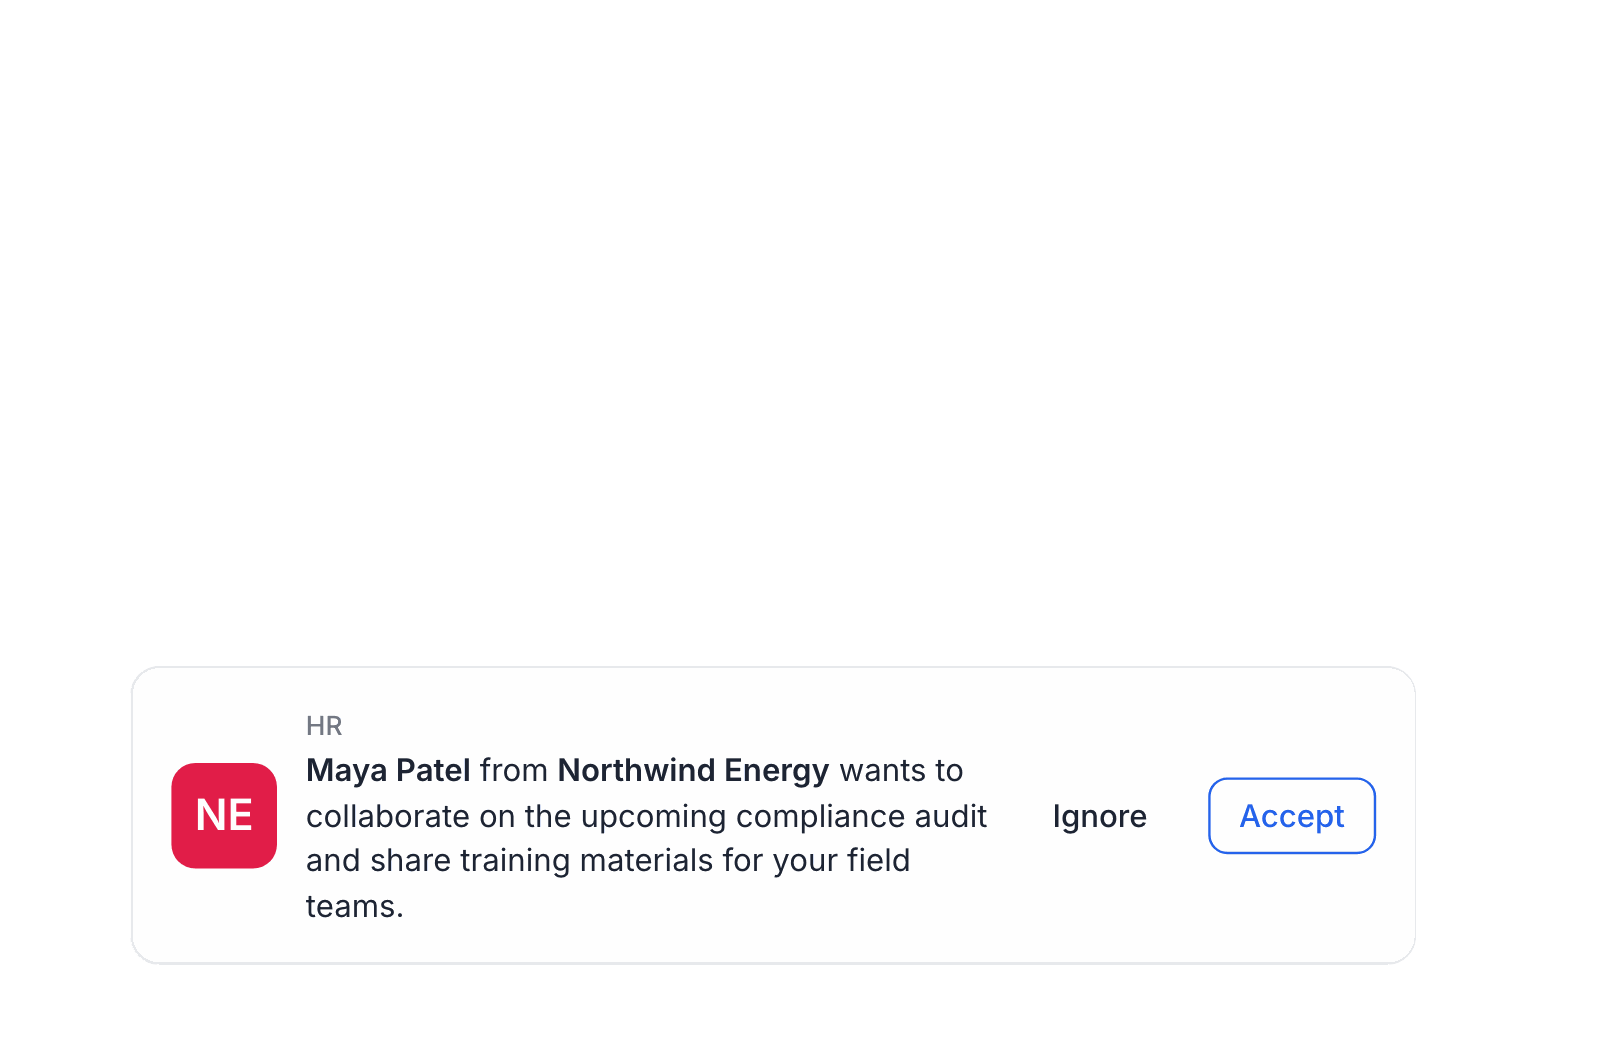
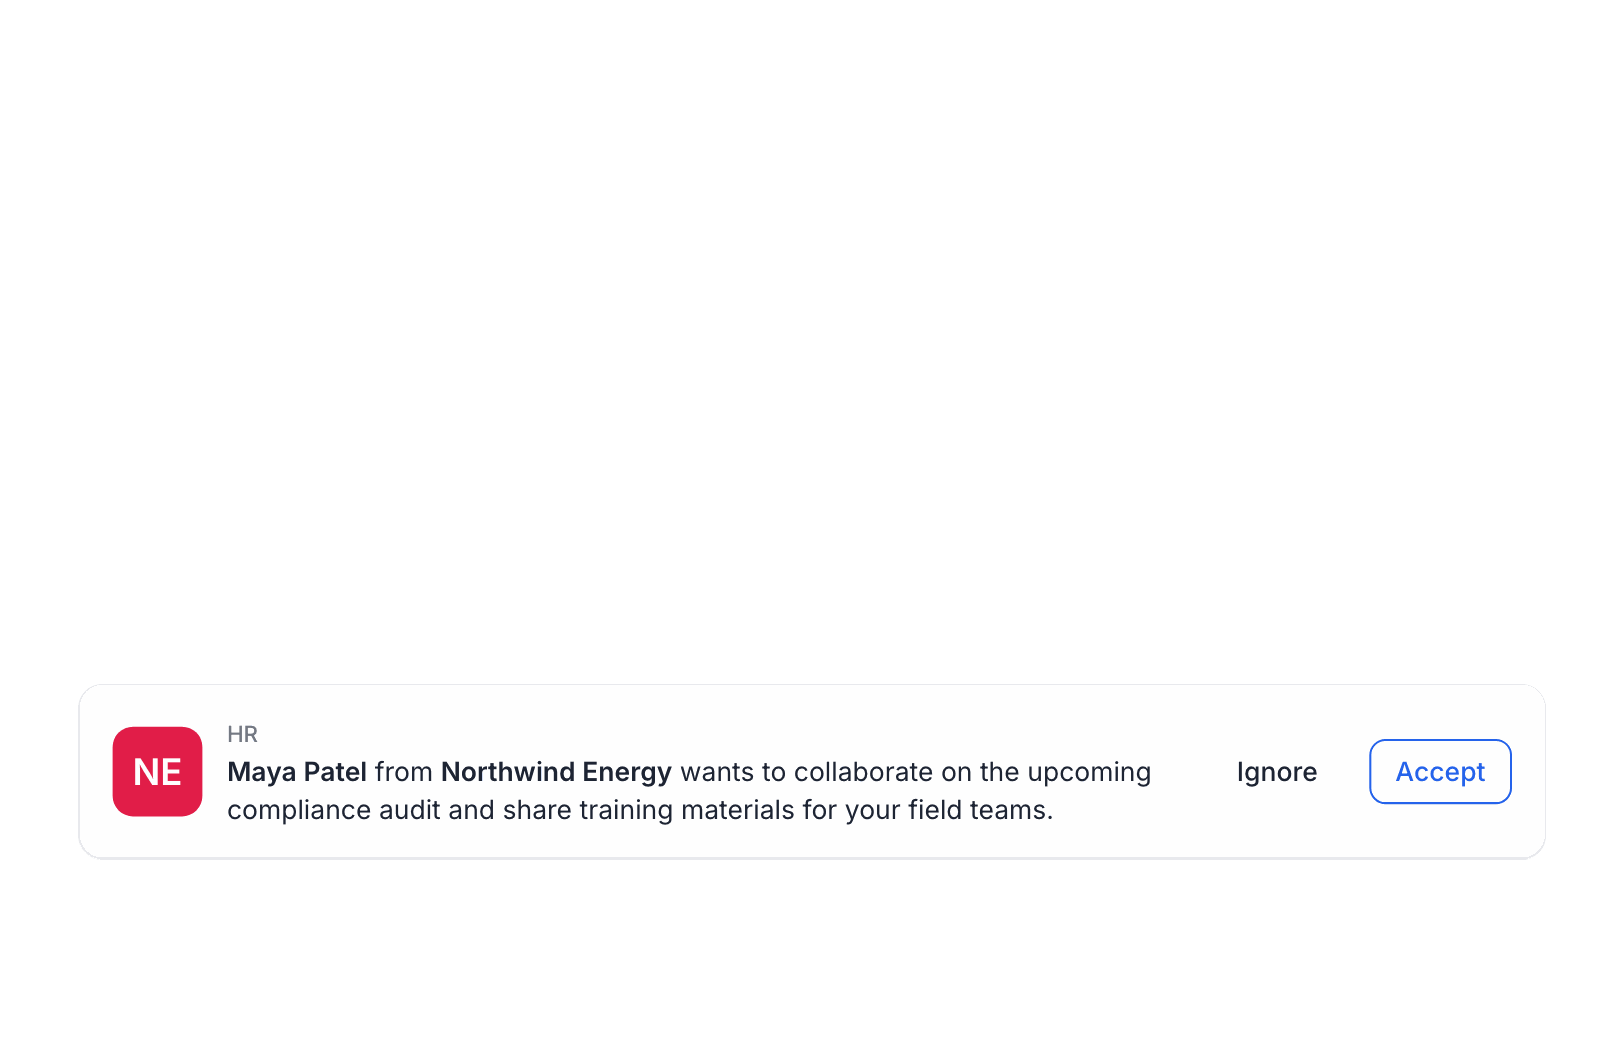
feat(work): Connect2WOW thumbnails play the prototype, on the one at the front
The worker record steps through its Overview, Payroll and Document tabs
in a fixed frame. The top bar opens the profile menu, zooms in on it for
1.5s and out, closes it, then does the same with the notifications. The
requests panel shows every card whole, and its cards rise in only when it
comes to the front. Replaces the slow camera move.

Changed region(s): [[0.0616, 0.6769, 0.7081, 0.8615], [0.7389, 0.7077, 0.9236, 0.8308], [0.1847, 0.8615, 0.2463, 0.8923]]

diff --git a/src/scripts/v4-strip.js b/src/scripts/v4-strip.js
@@ -7,11 +7,14 @@
  * each side (.is-clone, hidden from screen readers): after sliding onto a
  * copy it jumps, unseen, to the real one.
  *
- * THE THUMBNAIL IT LANDS ON PLAYS, once the strip is on screen (.is-play):
- * a "pan" panel its slow camera move, when it is the one at the front; a
- * "layers" panel its layers one by one, the first time any of it shows
- * (.is-held keeps them up after). Off screen, both reset, so they play again
- * next time. Reduced motion: no slide, no motion (CSS).
+ * ONLY THE THUMBNAIL AT THE FRONT PLAYS, once the strip is on screen. A
+ * "frames" panel plays its steps (data-steps: which still shows, for how
+ * long, and a zoom into part of it), on a loop; anywhere else it waits on
+ * its first still. A "layers" panel brings its layers in one by one
+ * (.is-play) the first time it comes to the front, and keeps them up while
+ * it stays in sight (.is-held); until then they are hidden. Out of sight,
+ * both reset, so they play again next time. Reduced motion: no slide, no
+ * motion.
  *
  * THE WHOLE CARD IS A LINK. A click anywhere on a linked project (name,
  * text or strip; article[data-card-href]) opens its case study, Cmd/Ctrl or
@@ -25,6 +28,41 @@
   var SLIDE = 550;                                            // ms, as --v4-strip-slide
   var SWIPE = 40;                                             // px of drag or swipe for one step
   var WHEEL = 24;                                             // px of sideways scroll for one step
+
+  // A "frames" panel's steps: show still f for ms, zoomed into [x, y, scale]
+  // (x, y the centre to zoom on, 0-1 of the panel) or not at all.
+  function zoomTo(z) {
+    if (!z) return "none";
+    var s = z[2];
+    var tx = Math.max(1 - s, Math.min(0, 0.5 - s * z[0]));
+    var ty = Math.max(1 - s, Math.min(0, 0.5 - s * z[1]));
+    return "translate(" + (tx * 100).toFixed(2) + "%," + (ty * 100).toFixed(2) + "%) scale(" + s + ")";
+  }
+  function play(panel) {
+    if (panel._seq || reduce) return;
+    var steps = JSON.parse(panel.getAttribute("data-steps") || "[]");
+    var stack = panel.querySelector(".v4-project__frames");
+    var frames = stack ? stack.children : [];
+    if (!steps.length || !frames.length) return;
+    var i = 0;
+    panel.classList.remove("is-reset");
+    (function next() {
+      var st = steps[i];
+      Array.prototype.forEach.call(frames, function (f, k) { f.classList.toggle("is-on", k === st.f); });
+      stack.style.transform = zoomTo(st.zoom);
+      i = (i + 1) % steps.length;
+      panel._seq = setTimeout(next, st.ms);
+    })();
+  }
+  function stop(panel) {
+    if (!panel._seq) return;
+    clearTimeout(panel._seq);
+    panel._seq = 0;
+    panel.classList.add("is-reset");
+    var stack = panel.querySelector(".v4-project__frames");
+    stack.style.transform = "none";
+    Array.prototype.forEach.call(stack.children, function (f, k) { f.classList.toggle("is-on", k === 0); });
+  }
 
   Array.prototype.slice.call(document.querySelectorAll("[data-strip]")).forEach(function (strip) {
     var track = strip.querySelector(".v4-project__track");
@@ -56,23 +94,29 @@
       track.style.transform = "translate3d(" + x + "px,0,0)";
     }
 
-    // What is in view now, and what plays.
+    // What is in view now, and what plays: only the one at the front.
     function update() {
       var w = strip.clientWidth, seen = [];
       all.forEach(function (el, k) {
         var L = k % N, left = el.offsetLeft - all[0].offsetLeft + x;
         var vis = onScreen && left < w - 1 && left + el.offsetWidth > 1;
+        var front = onScreen && k === idx;
         if (vis) seen[L] = true;
-        if (!vis) { el.classList.remove("is-play", "is-held"); return; }
-        if (el.classList.contains("v4-project__panel--pan")) {
-          if (k !== idx) el.classList.remove("is-play");
-          else el.classList.add("is-play");
+        if (el.classList.contains("v4-project__panel--frames")) {
+          if (front) play(el); else stop(el);
         } else if (el.classList.contains("v4-project__panel--layers")) {
-          if (el.classList.contains("is-play") || el.classList.contains("is-held")) return;
-          el.classList.add(shown[L] ? "is-held" : "is-play");
+          if (front) {
+            if (!el.classList.contains("is-play") && !el.classList.contains("is-held")) el.classList.add(shown[L] ? "is-held" : "is-play");
+          } else if (vis && shown[L]) {
+            el.classList.remove("is-play");
+            el.classList.add("is-held");
+          } else {
+            el.classList.remove("is-play", "is-held");
+          }
+          if (front) seen[L] = "played";
         }
       });
-      for (var L = 0; L < N; L++) shown[L] = !!seen[L];
+      for (var L = 0; L < N; L++) shown[L] = seen[L] === "played" || (!!seen[L] && !!shown[L]);
     }
 
     // After a slide: off a copy onto the real one, unseen, then play.

diff --git a/src/_data/home.js b/src/_data/home.js
@@ -74,9 +74,22 @@ module.exports = {
           { text: " Co-built a 40–50 component design system and the model that decides how every alert looks and behaves." },
         ],
         panels: [
-          // motion: "pan" is a slow camera move (pan: 1 drifts right, -1 left);
-          // "layers" stack on bg and appear one by one (_work.css, v4-strip.js).
-          { src: "/Assets/v4/work/connect2wow/panel-1.jpg", motion: "pan", pan: 1, alt: "Connect2WOW HR module: Mark Rushmore's worker record, with the People list open" },
+          // Thumbnail motion, played only on the thumbnail at the front
+          // (_work.css, scripts/v4-strip.js). "frames": stills of the
+          // prototype played by steps, each { f: frame, ms: hold, zoom:
+          // [centre x, centre y (0-1 of the panel), scale] }, on a loop.
+          // "layers": transparent layers on bg that rise in one by one.
+          {
+            motion: "frames",
+            frames: [
+              "/Assets/v4/work/connect2wow/record-overview.webp",
+              "/Assets/v4/work/connect2wow/record-payroll.webp",
+              "/Assets/v4/work/connect2wow/record-documents.webp",
+            ],
+            // The record's tabs, one after another, its content changing with them.
+            steps: [{ f: 0, ms: 2400 }, { f: 1, ms: 2400 }, { f: 2, ms: 2400 }],
+            alt: "Connect2WOW HR module: Mark Rushmore's worker record, moving through its Overview, Payroll and Document tabs",
+          },
           {
             motion: "layers",
             bg: "#F3F6F8",
@@ -87,7 +100,27 @@ module.exports = {
             ],
             alt: "Connect2WOW Home: offboarding and hiring requests with Decline and Approve, and a partner's connection request",
           },
-          { src: "/Assets/v4/work/connect2wow/panel-3.jpg", motion: "pan", pan: -1, alt: "Connect2WOW HR module: the same worker record, with site, phone, record tabs and an expired certificate" },
+          {
+            motion: "frames",
+            frames: [
+              "/Assets/v4/work/connect2wow/top-base.webp",
+              "/Assets/v4/work/connect2wow/top-acct.webp",
+              "/Assets/v4/work/connect2wow/top-notif.webp",
+            ],
+            // The profile menu opens, is zoomed into for 1.5s, zooms back out
+            // and closes; then the same for the notifications.
+            steps: [
+              { f: 0, ms: 1400 },
+              { f: 1, ms: 500 },
+              { f: 1, ms: 2200, zoom: [0.737, 0.497, 1.6] },
+              { f: 1, ms: 1000 },
+              { f: 0, ms: 1200 },
+              { f: 2, ms: 500 },
+              { f: 2, ms: 2200, zoom: [0.371, 0.489, 1.54] },
+              { f: 2, ms: 1000 },
+            ],
+            alt: "Connect2WOW top bar on the worker record: the profile menu opens, then the notifications",
+          },
         ],
       },
       {

diff --git a/src/styles/v4/_work.css b/src/styles/v4/_work.css
@@ -184,23 +184,42 @@ a.v4-project__link:hover {
   object-fit: cover;
 }
 
-/* THE THUMBNAIL IT LANDS ON PLAYS (.is-play, scripts/v4-strip.js).
-   A slow camera move: in a little, drifting along the screen (--pan-dir 1
-   to the right, -1 to the left), once, and it stays there. */
-.v4-project__panel--pan.is-play img {
-  animation: v4-pan var(--v4-pan-time) cubic-bezier(.37, 0, .4, 1) both;
+/* ONLY THE THUMBNAIL AT THE FRONT PLAYS (scripts/v4-strip.js); the others
+   wait on their first still.
+
+   Frames: stills of the prototype stacked, the one showing .is-on. A zoom
+   moves the whole stack (the script sets its transform); the framing never
+   changes otherwise. */
+.v4-project__panel--frames {
+  position: relative;
 }
 
-@keyframes v4-pan {
-  to {
-    transform: translate(calc(var(--pan-dir, 1) * -1 * var(--v4-pan-shift)), -1%) scale(var(--v4-pan-zoom));
-  }
+.v4-project__frames {
+  position: absolute;
+  inset: 0;
+  transform-origin: 0 0;
+  transition: transform var(--v4-zoom-time) var(--v4-zoom-ease);
 }
 
-/* Layers on the panel's own background, each a full-size transparent
-   image, rising in one after another the first time the panel is seen.
-   Hidden only once the carousel runs, so they always show without it;
-   .is-held keeps them up without playing again. */
+.v4-project__frame {
+  position: absolute;
+  inset: 0;
+  opacity: 0;
+  transition: opacity var(--v4-frame-fade) linear;
+}
+
+.v4-project__frame.is-on {
+  opacity: 1;
+}
+
+.v4-project__panel.is-reset :is(.v4-project__frames, .v4-project__frame) {
+  transition: none;
+}
+
+/* Layers: on the panel's own background, each a full-size transparent
+   image, rising in one after another when the panel first comes to the
+   front. Hidden only once the carousel runs, so they always show without
+   it; .is-held keeps them up after, without playing again. */
 .v4-project__layers {
   position: absolute;
   inset: 0;
@@ -233,7 +252,6 @@ a.v4-project__link:hover {
 
 @media (prefers-reduced-motion: reduce) {
   .v4-project__track.is-sliding { transition: none; }
-  .v4-project__panel--pan.is-play img,
   .v4-project__panel--layers.is-play .v4-project__layer { animation: none; }
   .is-carousel .v4-project__panel--layers .v4-project__layer { opacity: 1 !important; }
 }

diff --git a/src/styles/v4/tokens.css b/src/styles/v4/tokens.css
@@ -177,9 +177,9 @@
   /* The strip's carousel and its thumbnails' motion (scripts/v4-strip.js). */
   --v4-strip-slide: .55s;                       /* one thumbnail along */
   --v4-strip-ease: cubic-bezier(.22, .61, .36, 1);
-  --v4-pan-time: 12s;                           /* the slow camera move, once */
-  --v4-pan-zoom: 1.08;
-  --v4-pan-shift: 3%;
+  --v4-frame-fade: .16s;                        /* one still to the next */
+  --v4-zoom-time: .7s;                          /* zooming into a menu and out */
+  --v4-zoom-ease: cubic-bezier(.65, 0, .35, 1);
   --v4-layer-time: .6s;                         /* each layer rising in */
   --v4-layer-lead: .15s;
   --v4-layer-step: .16s;
